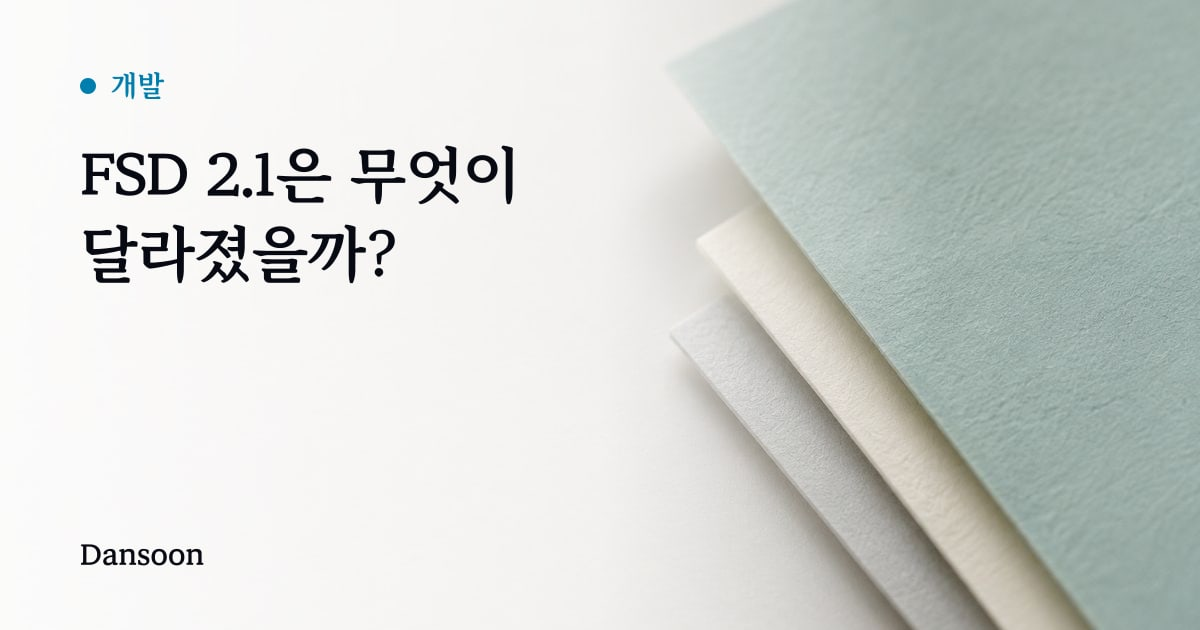
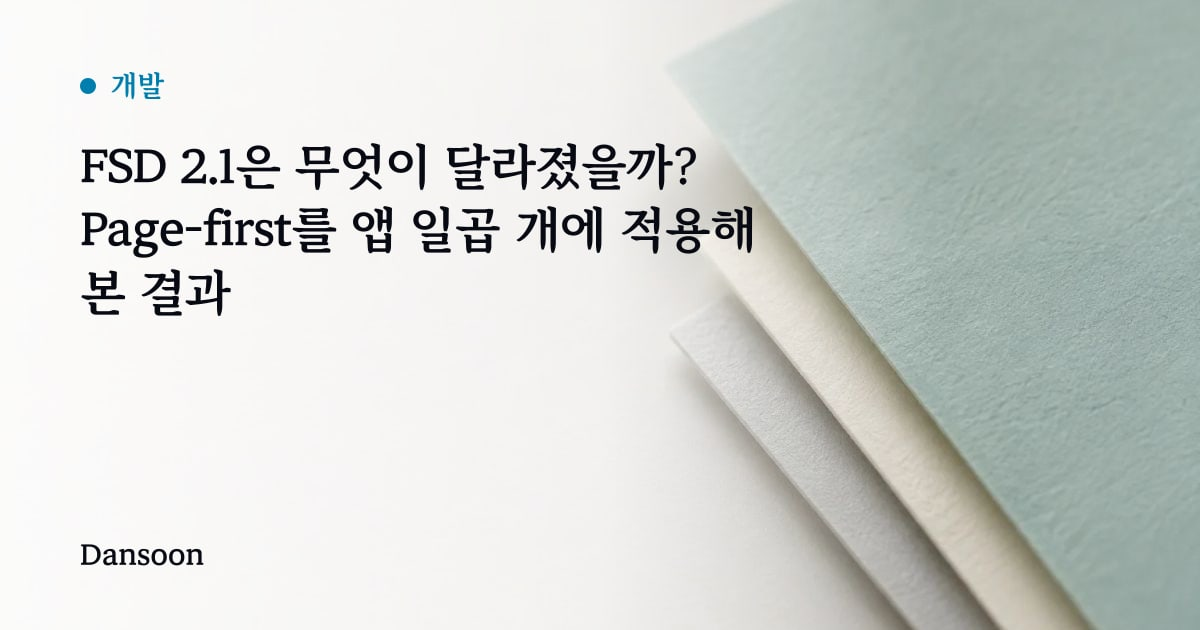
docs(dansoon): FSD 2.1 글에 앱 일곱 개를 Page-first로 다시 나눈 사례 추가 (#295)
일반 비교 위주였던 글에 labs 전환(#272)의 실제 전후 구조를 더한다.
공식 Layers 문서의 재사용 기준, 스도쿠 앱 전후 트리, 앱 일곱 개에서 옮긴
슬라이스 수, 커진 페이지 슬라이스 규모를 git 기록 기준으로 적는다.
제목·설명을 고치고 본문 이미지와 썸네일을 새로 만든다.

Changed region(s): [[0.0617, 0.2111, 0.6475, 0.5127]]

diff --git a/apps/dansoon/contents/posts/fsd-2-1/index.md b/apps/dansoon/contents/posts/fsd-2-1/index.md
@@ -1,8 +1,8 @@
 ---
-title: "FSD 2.1은 무엇이 달라졌을까?"
-description: "FSD 2.0의 Feature 중심 구조가 FSD 2.1에서 Page-first로 바뀐 이유를 짚고, 두 버전의 핵심 차이와 장점을 비교해요."
+title: "FSD 2.1은 무엇이 달라졌을까? Page-first를 앱 일곱 개에 적용해 본 결과"
+description: "FSD 2.0의 Feature 중심 구조가 2.1에서 Page-first로 바뀐 이유와 차이를 짚고, Next.js 앱 일곱 개에서 한 페이지에서만 쓰던 슬라이스를 페이지 안으로 옮긴 전후 구조를 정리해요."
 publishedAt: "2025-11-30T14:49:57+09:00"
-updatedAt: "2026-11-10T18:24:00+09:00"
+updatedAt: "2026-11-13T13:00:00+09:00"
 category: "dev"
 tags: ["fsd"]
 legacyUrl: "https://dansoon-dev.tistory.com/23"
@@ -88,6 +88,41 @@ FSD 2.1에서는 Page에서 흐름을 정의하고, 그 아래에 Widget과 Feat
 Page가 흐름과 데이터 준비를 맡는다는 말은 곧 코드를 처음 둘 자리가 Page라는 뜻입니다. 특정 페이지에서만 필요한 UI나 분기 조건은 그 Page 슬라이스 안에 두면 됩니다. 같은 코드가 다른 페이지에서도 필요해지는 시점에 Widget이나 Feature로 내리면 되므로, 재사용될지 모르는 코드를 미리 Feature로 분리할 필요가 줄어듭니다.
 
 2.0 방식에서는 이 판단이 거꾸로였습니다. 기능이 보이면 먼저 Feature로 만들고 Page가 이를 조립했기 때문에, 한 페이지에서만 쓰는 로직까지 Feature에 쌓이기 쉬웠습니다. 앞에서 짚은 Feature 비대화는 이런 배치 순서에서 생깁니다.
+
+## Page-first로 앱 일곱 개를 다시 나눠 보니
+
+이 기준을 직접 적용해 본 적이 있습니다. 2026년 11월, 개인 프로젝트를 모아 둔 labs 저장소의 Next.js 앱 일곱 개를 FSD 공식 문서 기준으로 다시 정리했습니다([PR #272](https://github.com/KimDanwoo/labs/pull/272)). 이 저장소는 Next.js 폴더 이름과 겹치지 않도록 Pages 레이어를 `views`라고 부릅니다. 공식 [v2.0에서 v2.1로 옮기는 가이드](https://feature-sliced.design/docs/guides/migration/from-v2-0)도 페이지에서 시작하고 거기서 멈춰도 된다고 권합니다.
+
+옮길지 말지는 공식 문서 [Layers](https://feature-sliced.design/docs/reference/layers)의 두 문장으로 정했습니다.
+
+> A good indicator that something needs to be a feature is the fact that it is reused on several pages.
+>
+> If a UI block on a page is not reused, it's perfectly fine to keep it inside the page slice.
+
+여러 페이지에서 다시 쓰이는 것이 Feature로 둘 만하다는 신호이고 재사용되지 않는 UI 블록은 Page 슬라이스 안에 두어도 된다는 뜻입니다. 그래서 슬라이스마다 가져다 쓰는 페이지 수를 세고 한 페이지에서만 쓰는 슬라이스는 그 페이지 안으로 옮겼습니다.
+
+![여러 칸에 흩어져 있던 상자가 각 방으로 옮겨지고 공용 선반에는 몇 개만 남는 모습](./page-first.webp)
+
+스도쿠 앱(awesome-sudoku)의 `src/` 아래가 이렇게 바뀌었습니다.
+
+```text
+# 옮기기 전
+entities/  game · session · theme
+features/  auth · game-record · game-stats · leaderboard · profile · sudoku-game · theme
+widgets/   game-board · game-controls · game-header · game-overlays · game-result
+views/     home · leaderboard · profile
+
+# 옮긴 뒤
+entities/  game · session · theme
+features/  theme
+views/     home · leaderboard · profile
+```
+
+게임 화면에서만 쓰던 `sudoku-game`·`auth`·`game-record`와 위젯 다섯 개는 `views/home`으로, `leaderboard`는 `views/leaderboard`로, `profile`·`game-stats`는 `views/profile`로 들어갔습니다. 남은 슬라이스는 여러 페이지가 함께 쓰는 것뿐입니다. `features/theme`은 home·leaderboard·profile 세 페이지가 가져다 쓰고 `entities/game`과 `entities/session`은 세 페이지와 앱 전체 프로바이더가 씁니다.
+
+앱 일곱 개를 합치면 features·entities 슬라이스 18개와 위젯 14개가 페이지 안으로 들어갔습니다. 나머지 위젯 2개는 페이지가 아닌 곳으로 갔습니다. 앱 전체 레이아웃은 `src/app`으로, 질문을 새로 만드는 화면과 수정하는 화면이 함께 쓰는 입력 폼은 features로 옮겼습니다. 정리 후 features·entities가 남은 앱은 세 개입니다. 화면이 하나뿐인 hub·komorebi·prairie는 `views` 슬라이스 하나만 남았습니다.
+
+앞에서 Page-first의 약점으로 짚은 "Page 슬라이스가 커지는 문제"도 실제로 나타났습니다. 테스트 파일을 빼고 세면 komorebi의 `views/walk`는 96개, prairie의 `views/ride`는 88개 파일이 됐습니다. 두 슬라이스 모두 안을 `ui`·`model`·`lib` 같은 세그먼트로 나눠 두었습니다. 지금 저장소가 따르는 기준 전체는 [FSD 가이드: Next.js 앱 일곱 개에 적용하며 정한 기준](/posts/fsd-guide/)에, 위젯을 다시 분류한 과정은 [FSD는 왜 Widgets 레이어를 권하지 않게 됐을까](/posts/fsd-2026-widgets/)에 정리했습니다.
 
 ## FSD 2.1의 장점
 
